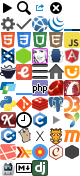
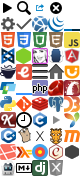
Add XPath documentation

Changed region(s): [[0.6, 0.9091, 0.8, 1.0]]

diff --git a/assets/stylesheets/global/_icons.scss b/assets/stylesheets/global/_icons.scss
@@ -64,3 +64,4 @@
 ._icon-cordova:before       { background-position: 0 -10rem; }
 ._icon-markdown:before      { background-position: -1rem -10rem; }
 ._icon-django:before        { background-position: -2rem -10rem; }
+._icon-xpath:before         { background-position: -3rem -10rem; }

diff --git a/lib/docs/filters/xpath/clean_html.rb b/lib/docs/filters/xpath/clean_html.rb
@@ -1,0 +1,30 @@
+module Docs
+  class Xpath
+    class CleanHtmlFilter < Filter
+      def call
+        root_page? ? root : other
+        doc
+      end
+
+      def root
+        if table = at_css('.topicpage-table')
+          table.after(table.css('td').children).remove
+        end
+      end
+
+      def other
+        css('div[style*="background: #f5f5f5;"]').remove
+
+        css('h3[id]').each do |node|
+          node.name = 'h2'
+        end
+
+        css('p').each do |node|
+          child = node.child
+          child = child.next while child && child.text? && child.content.blank?
+          child.remove if child.try(:name) == 'br'
+        end
+      end
+    end
+  end
+end

diff --git a/lib/docs/scrapers/mdn/xpath.rb b/lib/docs/scrapers/mdn/xpath.rb
@@ -1,0 +1,16 @@
+module Docs
+  class Xpath < Mdn
+    self.name = 'XPath'
+    self.base_url = 'https://developer.mozilla.org/en-US/docs/Web/XPath'
+
+    html_filters.push 'xpath/clean_html', 'xpath/entries', 'title'
+
+    options[:root_title] = 'XPath'
+
+    options[:fix_urls] = ->(url) do
+      url.sub! 'https://developer.mozilla.org/en/XPath', Xpath.base_url
+      url.sub! 'https://developer.mozilla.org/en-US/docs/XPath', Xpath.base_url
+      url
+    end
+  end
+end

diff --git a/lib/docs/filters/xpath/entries.rb b/lib/docs/filters/xpath/entries.rb
@@ -1,0 +1,22 @@
+module Docs
+  class Xpath
+    class EntriesFilter < Docs::EntriesFilter
+      def get_name
+        name = super
+        name.remove!('Axes.')
+        name << '()' if name.remove!('Functions.')
+        name
+      end
+
+      def get_type
+        if slug.start_with?('Axes')
+          'Axes'
+        elsif slug.start_with?('Functions')
+          'Functions'
+        else
+          'Miscellaneous'
+        end
+      end
+    end
+  end
+end
